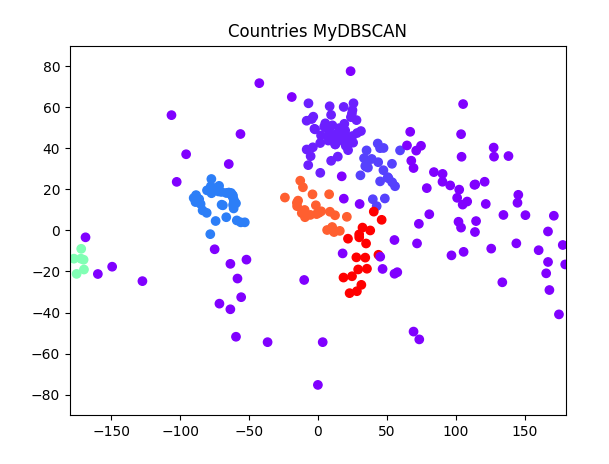
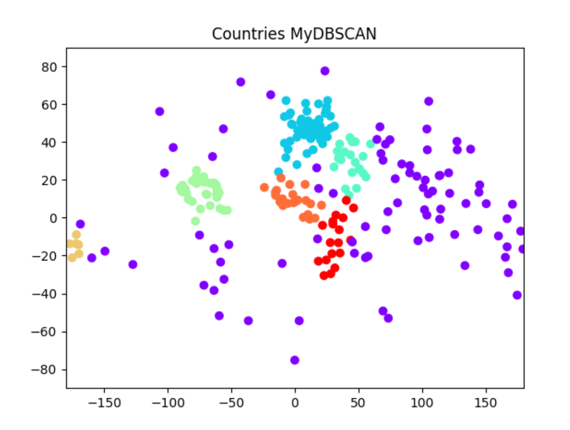
fix algorithms

diff --git a/students/be-poloshkov/dbscan.py b/students/be-poloshkov/dbscan.py
@@ -1,6 +1,7 @@
 from collections import deque
 
 import numpy as np
+import pandas as pd
 
 
 class MyDBSCAN:
@@ -12,71 +13,64 @@ class MyDBSCAN:
     def __repr__(self) -> str:
         return f'MyDBSCAN class: eps={self.eps}, min_samples={self.min_samples}'
 
-    def fit_predict(self, X):
-        X = np.array(X)
-        observations, feature_count = X.shape
-        roots = {}
-        border = set()
-        outliers = set()
+    def pairwise_distances(self, X):
+        n = len(X)
+        distances = np.zeros((n, n))
+        for i in range(n):
+            for j in range(i + 1, n):
+                distances[i][j] = distances[j][i] = self._get_dist(
+                    X.iloc[i].values,
+                    X.iloc[j].values,
+                )
+        return distances
 
-        core_to_cluster = {}
+    def find_neighbours(self, point_idx: int, distances: np.ndarray):
+        return [
+            nb_idx
+            for nb_idx, distance in enumerate(distances[point_idx])
+            if nb_idx != point_idx and distance < self.eps
+        ]
 
-        neighbours = self._get_neighbours(X)
-        for i in range(observations):
-            if i in outliers or i in border:
+    def fit_predict(self, X: pd.DataFrame):
+        n = len(X)
+        clusters = [0] * n
+        cluster_id = 1
+
+        distances = self.pairwise_distances(X)
+
+        for i in range(n):
+            if clusters[i] != 0:
                 continue
 
-            if len(neighbours[i]) < self.min_samples:
-                outliers.add(i)
+            if self.expand_cluster(distances, clusters, i, cluster_id):
+                cluster_id += 1
+
+        self.labels_ = clusters
+        return self.labels_
+
+    def expand_cluster(self, distances, clusters, i, cluster_id):
+        neighbours = self.find_neighbours(i, distances)
+        if len(neighbours) < self.min_samples:
+            clusters[i] = -1
+            return False
+
+        clusters[i] = cluster_id
+        for j in neighbours:
+            clusters[j] = cluster_id
+
+        neighbours = deque(neighbours)
+        while neighbours:
+            j_nbs = self.find_neighbours(neighbours.pop(), distances)
+            if len(j_nbs) < self.min_samples:
                 continue
 
-            if i not in core_to_cluster:
-                core_to_cluster[i] = i
+            for k in j_nbs:
+                if clusters[k] < 1:
+                    if clusters[k] == 0:
+                        neighbours.append(k)
+                    clusters[k] = cluster_id
 
-            cluster = core_to_cluster[i]
-
-            if cluster not in roots:
-                roots[cluster] = set()
-
-            traversal_list = deque(neighbours[i])
-            seen = set()
-            while traversal_list:
-                neighbour = traversal_list.popleft()
-                if neighbour in seen:
-                    continue
-                seen.add(neighbour)
-                if len(neighbours[neighbour]) < self.min_samples:
-                    border.add(neighbour)
-                else:
-                    core_to_cluster[neighbour] = cluster
-                    traversal_list.extend(neighbours[neighbour])
-                roots[cluster].add(neighbour)
-
-
-        res = [0] * observations
-
-        # outliers go to cluster -1
-        for ol in outliers:
-            res[ol] = -1
-
-        for cluster_root, points in roots.items():
-            for point in points:
-                res[point] = cluster_root
-
-        return res
-
-    def _get_neighbours(self, X):
-        neighbours = [set() for _ in range(X.shape[0])]
-        for i in range(X.shape[0]):
-            for j in range(X.shape[0]):
-                if i == j:
-                    continue
-
-                dist = self._get_dist(X[i], X[j])
-                if dist < self.eps:
-                    neighbours[i].add(j)
-
-        return neighbours
+        return True
 
     def _get_dist(self, x, y):
         if self.metric == 'euclidean':

diff --git a/students/be-poloshkov/em.py b/students/be-poloshkov/em.py
@@ -1,5 +1,6 @@
+import random
+
 import numpy as np
-from scipy.stats import multivariate_normal
 
 
 class MyEM:
@@ -11,45 +12,53 @@ class MyEM:
         self.si = None
         self.weights = None
 
-    def fit_predict(self, X):
-        X = X.values
-        n_samples, n_features = X.shape
+    def fit_predict(self, data):
+        data = data.to_numpy()
 
-        self.means = X[np.random.choice(n_samples, self.n_clusters, replace=False)]
-        self.si = [np.cov(X.T) for _ in range(self.n_clusters)]
-        self.weights = np.ones(self.n_clusters) / self.n_clusters
-        probabilities = np.zeros((n_samples, self.n_clusters))
+        num_clusters = self.n_clusters
+        num_features = data.shape[1]
+        num_objects = len(data)
 
-        for iteration in range(self.max_iter):
-            for k in range(self.n_clusters):
-                probabilities[:, k] = self.weights[k] * multivariate_normal.pdf(
-                    X,
-                    mean=self.means[k],
-                    cov=self.si[k],
-                    allow_singular=True,
-                )
+        centers = np.array([random.choice(data) for _ in range(num_clusters)])
+        sigmas = np.empty((num_clusters, num_features))
 
-            probabilities /= probabilities.sum(axis=1, keepdims=True)
+        for k in range(num_clusters):
+            diff = data - centers[k]
+            sigmas[k] = np.diag(np.dot(diff.T, diff)) / num_objects
 
-            N_k = probabilities.sum(axis=0)
+        weights = 1 / num_clusters * np.ones((num_clusters, 1))
 
-            new_means = np.dot(probabilities.T, X) / N_k[:, np.newaxis]
-            new_covariances = []
+        y_prev = None
+        for _ in range(self.max_iter):
+            probs = []
+            for i in range(num_clusters):
+                ro_sq = np.sum((data[:, :] - centers[i]) ** 2 / sigmas[i], axis=1)
+                probs += [
+                    np.power((2 * np.pi), -num_features / 2)
+                    / np.prod(np.sqrt(sigmas[i]))
+                    * np.exp(-ro_sq / 2)
+                ]
+            probs = np.array(probs, dtype=np.float32).T
 
-            for k in range(self.n_clusters):
-                if N_k[k] == 0:
-                    new_covariances.append(np.eye(n_features))
-                else:
-                    diff = X - new_means[k]
-                    new_covariances.append(np.dot(probabilities[:, k] * diff.T, diff) / N_k[k])
+            g = weights.T * probs
+            g /= g.sum(axis=1)[:, np.newaxis]
 
-            new_weights = N_k / n_samples
+            weights = 1 / num_objects * np.sum(g, axis=0)
 
-            if (np.abs(new_weights - self.weights) < self.weight_threshold).all():
-                break
+            centers = (
+                    g.T @ data / weights[:, np.newaxis] / num_objects
+            )
 
-            self.means = new_means
-            self.si = new_covariances
-            self.weights = new_weights
+            sigmas = np.empty((num_clusters, num_features))
+            for k in range(num_clusters):
+                sigmas[k] = g[:, k] @ (data - centers[k]) ** 2
+            sigmas /= weights[:, np.newaxis]
+            sigmas /= num_objects
 
-        return np.argmax(probabilities, axis=1)
+            y = np.argmax(g, axis=1)
+
+            if y_prev is not None and np.array_equal(y, y_prev):
+                return y
+
+            y_prev = y
+        return y

diff --git a/students/be-poloshkov/hierarchy.py b/students/be-poloshkov/hierarchy.py
@@ -50,28 +50,6 @@ class MyAgglomerative:
                 res[val] = i
         return res
 
-    def mean_intracluster_distance(self, x: pd.DataFrame, labels):
-        X = x.to_numpy()
-        d = self._labels_to_dict(X, labels)
-        sum_dist = 0
-        n_pairs = 0
-        for points in d.values():
-            for i in range(len(points)):
-                for j in range(i + 1, len(points)):
-                    sum_dist += self._get_dist(points[i], points[j])
-                    n_pairs += 1
-
-        return sum_dist / n_pairs
-
-
-    def _labels_to_dict(self, X: np.ndarray, labels):
-        d = {}
-        for i, label in enumerate(labels):
-            if label not in d:
-                d[label] = []
-            d[label].append(X[i])
-        return d
-
     def _get_dist(self, x, y, l1, l2):
         if self.metric == 'euclidean':
             return np.linalg.norm(x - y)
